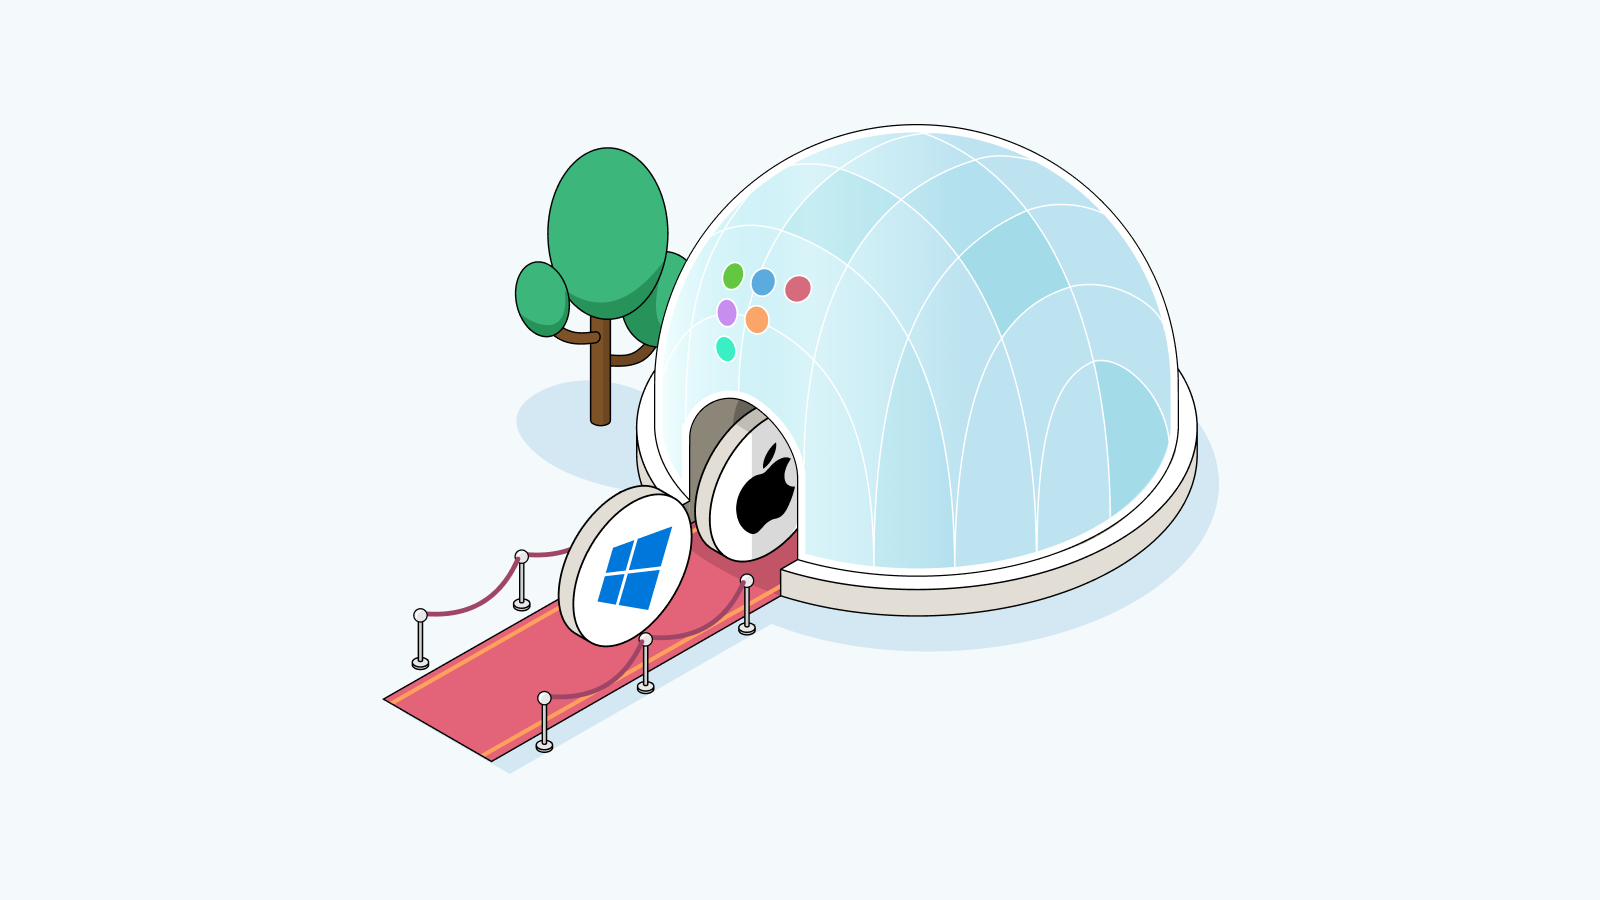
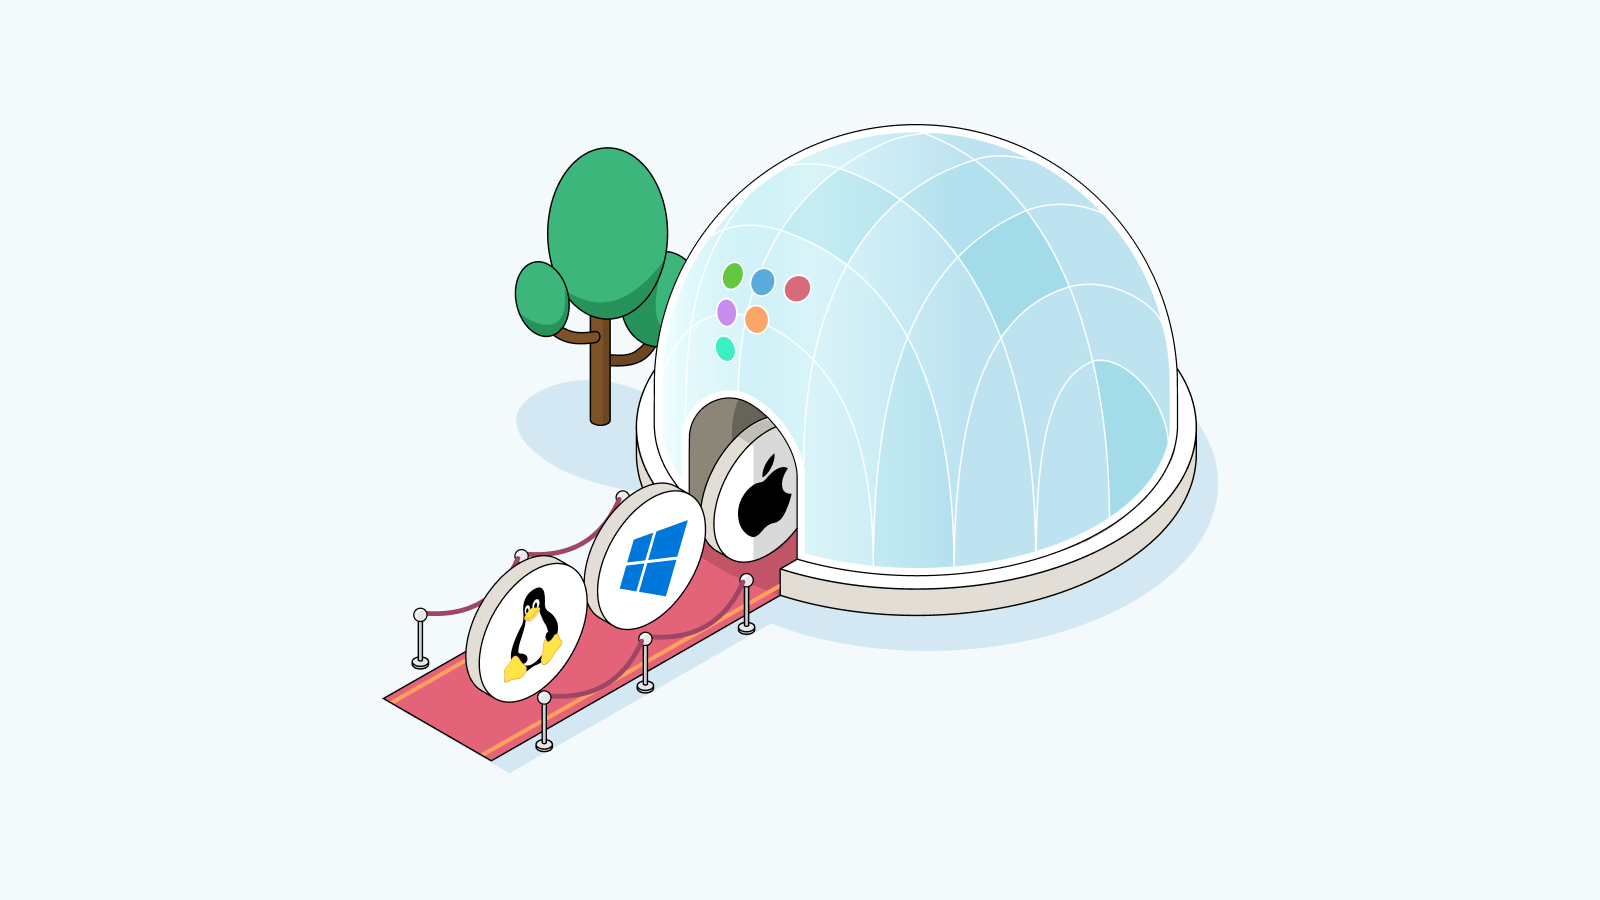
Added images
Added a couple of screenshots and updated the main graphic.

Changed region(s): [[0.25, 0.4044, 0.75, 0.84], [0.375, 0.3733, 0.4062, 0.4667], [0.3438, 0.3422, 0.375, 0.3733]]

diff --git a/articles/fleet-introduces-windows-mdm.md b/articles/fleet-introduces-windows-mdm.md
@@ -24,7 +24,9 @@ Our journey in developing Fleet revealed a clear demand for a more adaptable and
 * Advanced APIs for custom workflow integration across various operating systems.
 
 
-Existing solutions often fall into two categories: Windows-centric MDMs like Intune, which offer robust support for Windows but less flexibility for other platforms, and macOS-focused MDMs like Jamf, which are not designed for Windows integration. This segmentation in the MDM landscape leaves a significant gap for organizations that use a mix of Windows, macOS, and other operating systems.
+Existing solutions often fall into two categories: Windows-centric MDMs like Intune, which offer robust support for Windows but less flexibility for other platforms, and macOS-focused MDMs like Jamf, which are not designed for Windows integration. This segmentation in the MDM landscape leaves a significant gap for organizations that use a mix of Windows, macOS, and other operating systems. Fleet is purpose-built to bridge this divide and stands out as a comprehensive, cross-platform MDM solution that works cohesively across all major operating systems.
+
+![Fleet MDM Cover](../website/assets/images/articles/fleet-windows-mdm-launch-os-settings-800x640@2x.png)
 
 
 Expanding Fleet's MDM capabilities to encompass Windows significantly broadens the scope of device management for organizations operating in mixed OS environments. With this development, the deployment and management of configuration profiles, settings, and policies become universally accessible, regardless of the operating system. This inclusivity means IT admins can efficiently manage all devices in one place. Moreover, the near real-time verification of MDM profiles using osquery, a feature highlighted for macOS, is now equally applicable to Windows devices.
@@ -32,8 +34,8 @@ Expanding Fleet's MDM capabilities to encompass Windows significantly broadens t
 
 Likewise, Fleet's MDM provides the tools for teams to stay compliant with organizational policies, from encryption standards to operating system updates, and offers capabilities like remote locking or wiping lost devices.
 
-Fleet is purpose-built to bridge this divide and stands out as a comprehensive, cross-platform MDM solution that works cohesively across all major operating systems. 
-
+ 
+![Fleet MDM Cover](../website/assets/images/articles/fleet-windows-mdm-launch-disk-encryption-800x640@2x.png)
 
 
 
